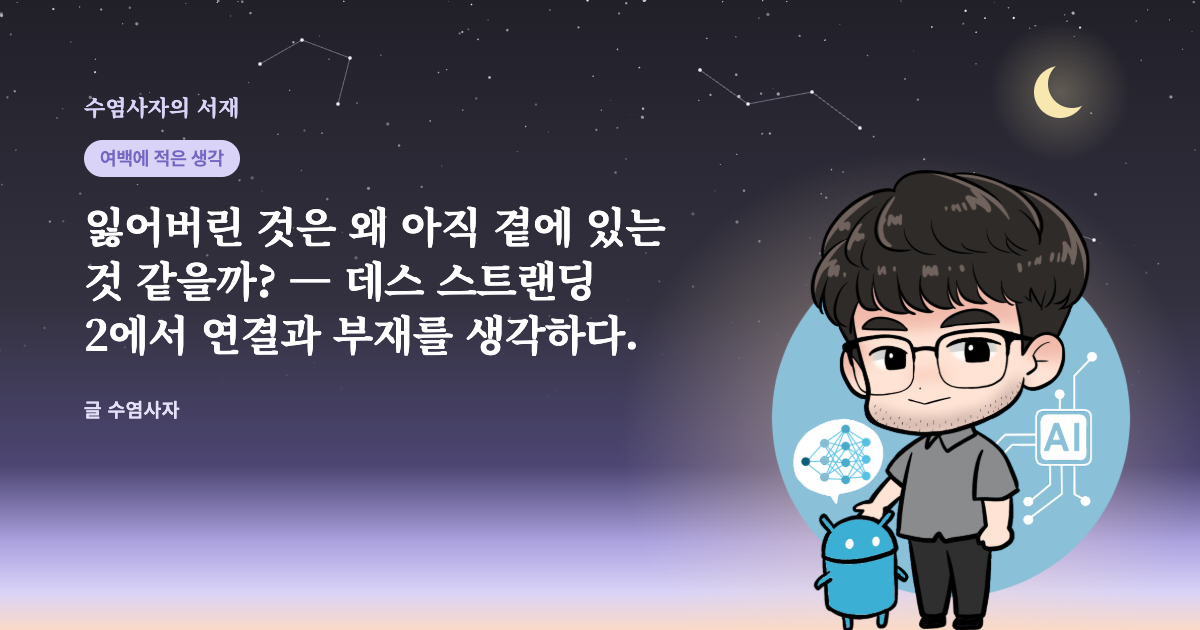
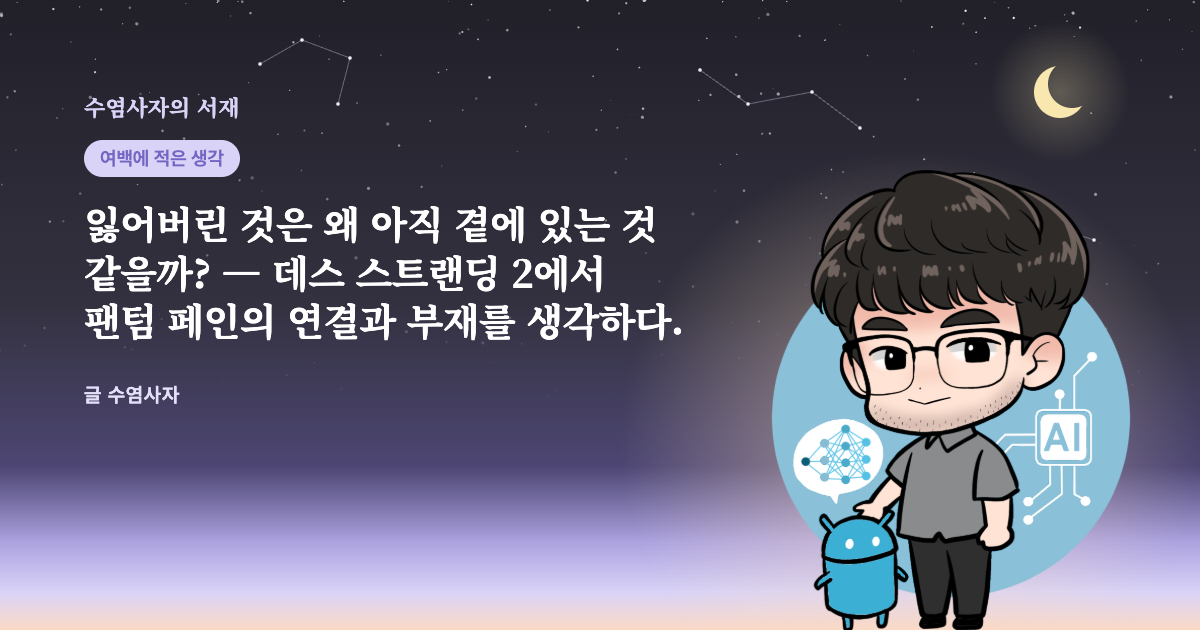
글 수정: 데스 스트랜딩 2 — 제목에 '팬텀 페인' 추가, 캐스팅 문장 (사용자 수정)
Claude-Session: https://claude.ai/code/session_01J36DQPXQ74TYwyF6NsL8oV

Changed region(s): [[0.0617, 0.3317, 0.555, 0.573], [0.0617, 0.6032, 0.1542, 0.6635]]

diff --git a/posts/death-stranding-absence/post.html b/posts/death-stranding-absence/post.html
@@ -59,7 +59,7 @@
 </head>
 <body>
 <article>
-<h1>잃어버린 것은 왜 아직 곁에 있는 것 같을까? — 데스 스트랜딩 2에서 연결과 부재를 생각하다.</h1>
+<h1>잃어버린 것은 왜 아직 곁에 있는 것 같을까? — 데스 스트랜딩 2에서 팬텀 페인의 연결과 부재를 생각하다.</h1>
 <div class="meta">2025-07-05 · 약 3분 분량 · 글 수염사자</div>
 
 <p>『데스 스트랜딩 2: 온 더 비치』(Death Stranding 2: On the Beach)는 코지마 히데오 감독의 역작이다. 2025년 6월 26일 플레이스테이션 5로 나왔고, 2019년에 나온 1편의 뒤를 잇는다. 이 게임에서 강조되는 몇 가지 키워드를 놓고 생각해 보려 한다. 연결, 부재, 상실이다. 이 글에는 결말에 관한 내용이 있다.</p>
@@ -74,7 +74,7 @@
 
 <h2>샘</h2>
 
-<p>샘 포터 브리지스를 맡은 노먼 리더스의 절제된 표정 연기가 압권이다. <strong>슬픔을 그렇게 절제된 방식으로 표현하는 배우는 참 드물다</strong>고 생각한다. 코지마가 왜 그를 캐스팅했는지 다시 한 번 느꼈다.</p>
+<p>샘 포터 브리지스를 맡은 노먼 리더스의 절제된 표정 연기가 압권이다. <strong>슬픔을 그렇게 절제된 방식으로 표현하는 배우는 참 드물다</strong>고 생각한다. 코지마가 왜 그를 캐스팅했는지 다시 한 번 완벽한 캐스팅임을 느꼈다.</p>
 
 <p>샘은 루(루이스)를 잃은 뒤에도 빈 BB 포드를 가지고 다닌다. 분명 프래자일이 루를 잃었다고 말했는데, 루의 BT 형태를 담아 데리고 가는 연출이 있다. 게이머는 주변 인물들의 대사를 듣고 유추할 수 있지만, 주인공만은 루와 함께 여행한다는 환상 속에 있는 것이다. 잃어버린 것이 마치 존재하는 것 같은 아픔. 코지마의 전작 『메탈 기어 솔리드 V: 팬텀 페인』(Metal Gear Solid V: The Phantom Pain)의 <strong>주요 테마인 '환상통'이 떠올랐다</strong>.</p>
 
